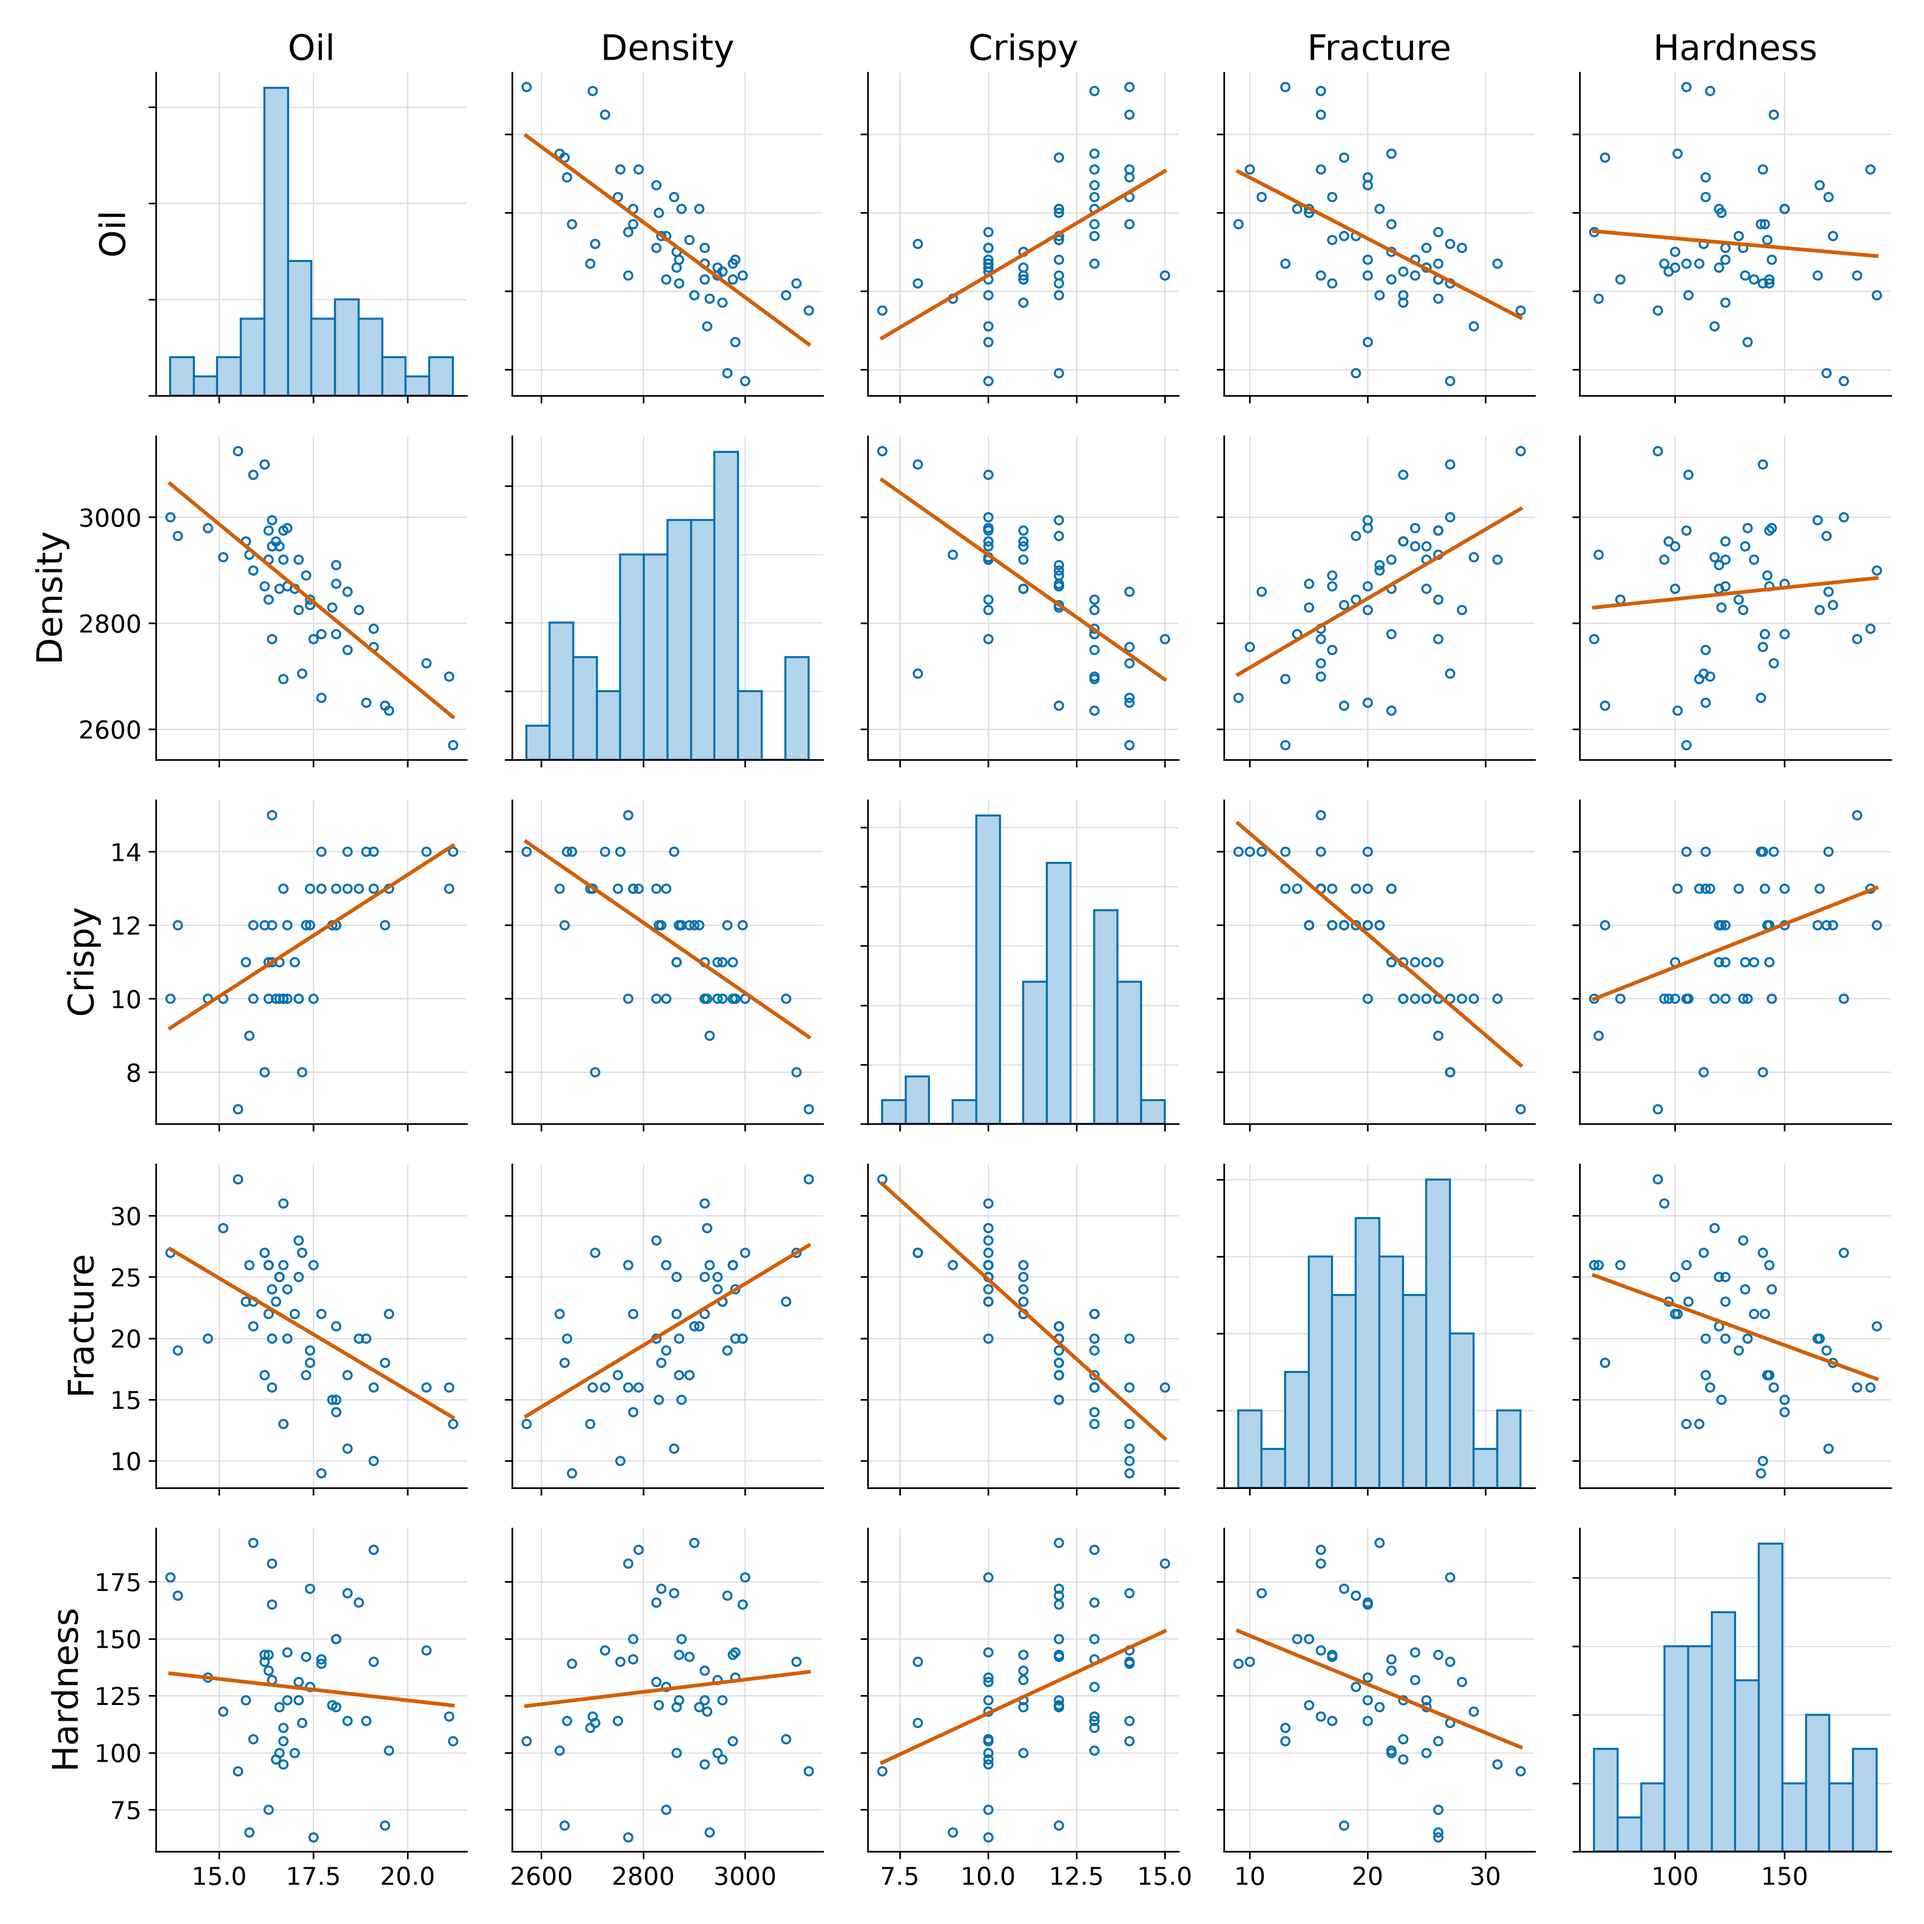
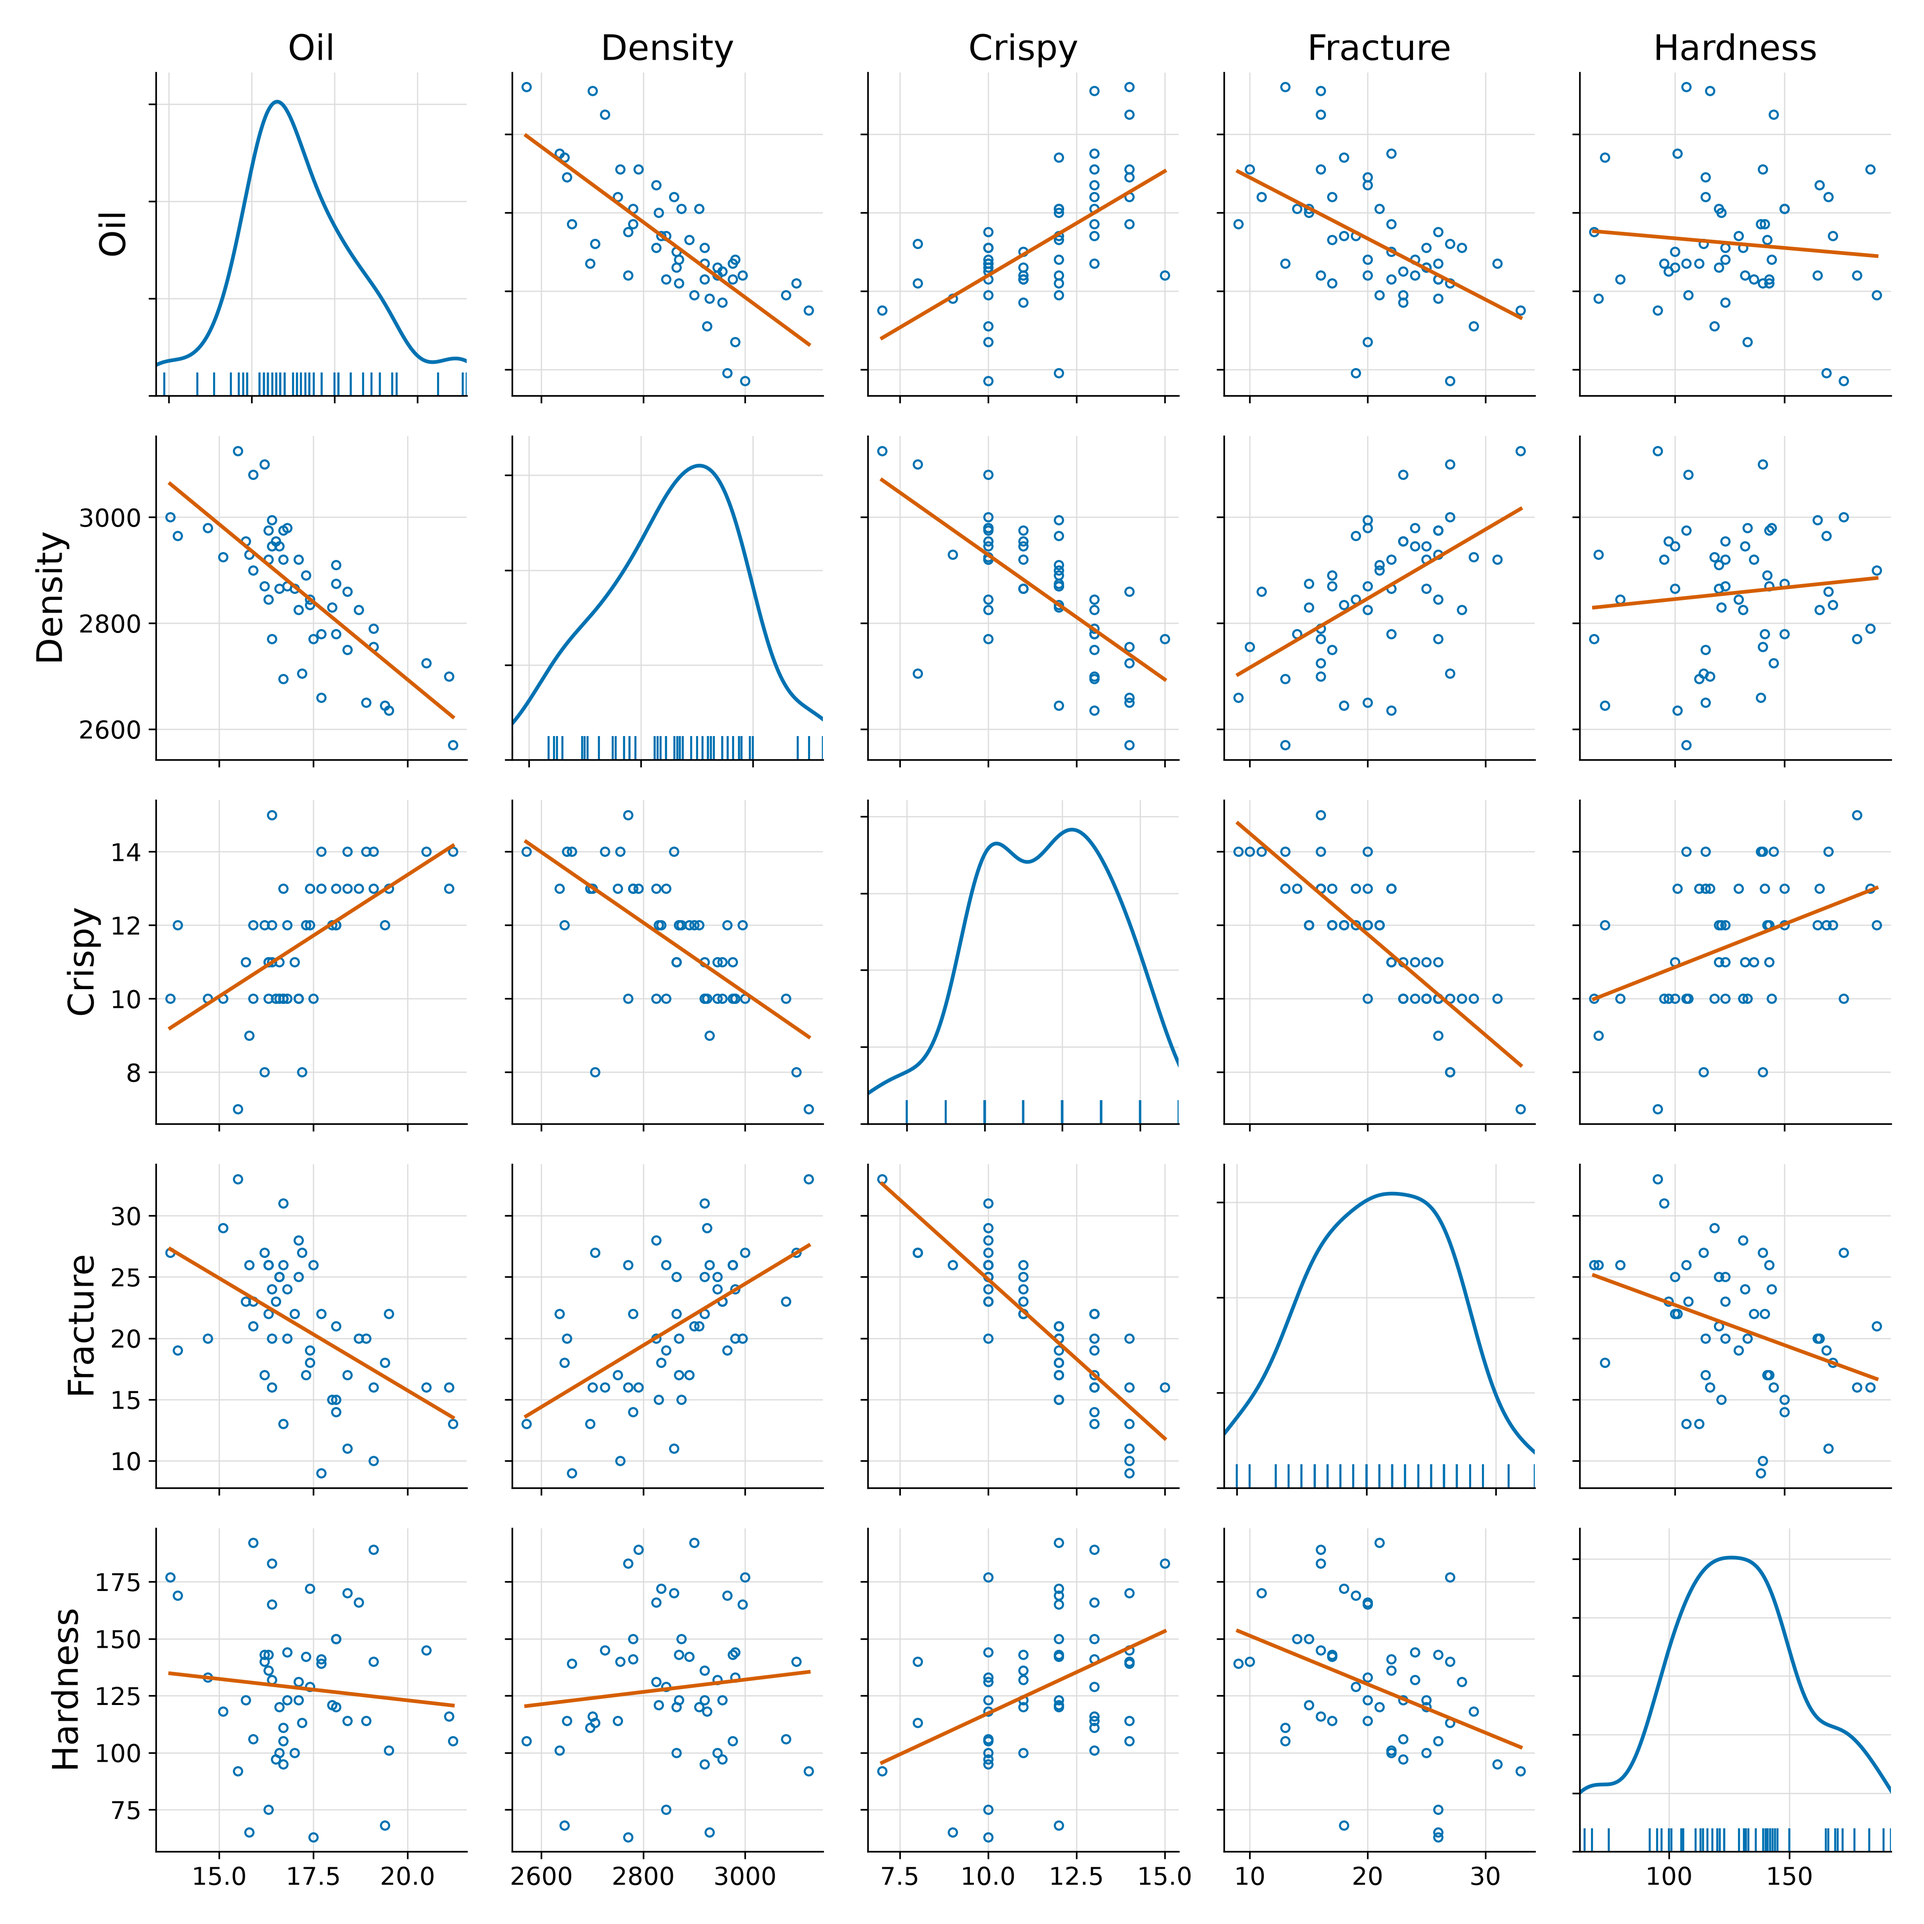
Put the density curve and rug back on the scatter-plot matrix diagonal
car::scatterplotMatrix draws a kernel density curve over a rug of the
individual readings on the diagonal, and the exercise solution refers
to it: it asks the reader to notice the equally spaced notches under
Crispy and Fracture, which is how those two variables reveal
themselves as quantized. Redrawing the diagonal as a histogram lost
exactly the feature the text points at.

The curve uses R's own bandwidth rule, bw.nrd0, so it is the same
shape the exercise was written against. It is nine lines of
arithmetic, so no new dependency.

diff --git a/visualization/data_visualization_exercise_figures.py b/visualization/data_visualization_exercise_figures.py
@@ -13,7 +13,9 @@ serve ``data-visualization/data-visualization-exercises.rst``:
   ``car::scatterplotMatrix``, which printed each variable name over the
   middle of its density curve and drew the regression lines in bright
   green; the names are now panel titles and the lines follow the
-  chapter's palette.
+  chapter's palette. The diagonal keeps the original's kernel density
+  curve and rug rather than a histogram: the rug shows the ties in
+  Crispy and Fracture, which are recorded as whole numbers.
 - ``website-traffic-boxplot.png``: visits by day of the week, in the
   Saturday-first order the solution text uses.
 - ``website-traffic-timeseries.png``: the same visits against a real
@@ -160,6 +162,31 @@ def course_website_visits(outdir: pathlib.Path) -> None:
     save(fig, outdir, "course-website-visits.png")
 
 
+def kernel_density(values: np.ndarray, cut: float = 3.0, points: int = 512):
+    """A Gaussian kernel density estimate, bandwidth as R chooses it.
+
+    R's ``density()`` defaults to the ``bw.nrd0`` rule of thumb,
+    :math:`0.9 \\min(s, \\text{IQR}/1.349) n^{-1/5}`, and that is what
+    ``car::scatterplotMatrix`` drew on the diagonal of the original
+    figure. Reproducing the rule here keeps the curve the same shape as
+    the one the exercise was written against, without taking a
+    dependency for nine lines of arithmetic.
+    """
+    x = np.asarray(values, dtype=float)
+    x = x[np.isfinite(x)]
+    n = x.size
+    spread = x.std(ddof=1)
+    iqr = float(np.subtract(*np.percentile(x, [75, 25])))
+    if iqr > 0:
+        spread = min(spread, iqr / 1.349)
+    bandwidth = 0.9 * spread * n ** (-0.2)
+
+    grid = np.linspace(x.min() - cut * bandwidth, x.max() + cut * bandwidth, points)
+    z = (grid[:, None] - x[None, :]) / bandwidth
+    density = np.exp(-0.5 * z**2).sum(axis=1) / (n * bandwidth * np.sqrt(2 * np.pi))
+    return grid, density
+
+
 def food_texture_matrix(outdir: pathlib.Path) -> None:
     food = fetch("food-texture.csv")
     columns = ["Oil", "Density", "Crispy", "Fracture", "Hardness"]
@@ -173,8 +200,17 @@ def food_texture_matrix(outdir: pathlib.Path) -> None:
             ax = axes[row, col]
             ax.grid(color=GRID, linewidth=0.6)
             if row == col:
-                ax.hist(food[x_name], bins=12, color=BLUE_FILL,
-                        edgecolor=BLUE, linewidth=1.0)
+                # The diagonal carries a density curve over a rug of the
+                # individual readings, as the R original did. The rug
+                # shows where the data actually sit, including the ties
+                # in Crispy and Fracture that a smooth curve hides.
+                values = food[x_name].to_numpy(dtype=float)
+                grid, density = kernel_density(values)
+                ax.plot(grid, density, color=BLUE, linewidth=1.8)
+                ax.vlines(values, 0, 0.08 * density.max(), color=BLUE,
+                          linewidth=1.0)
+                ax.set_xlim(values.min(), values.max())
+                ax.set_ylim(0, 1.1 * density.max())
             else:
                 x = food[x_name].to_numpy(dtype=float)
                 y = food[y_name].to_numpy(dtype=float)
